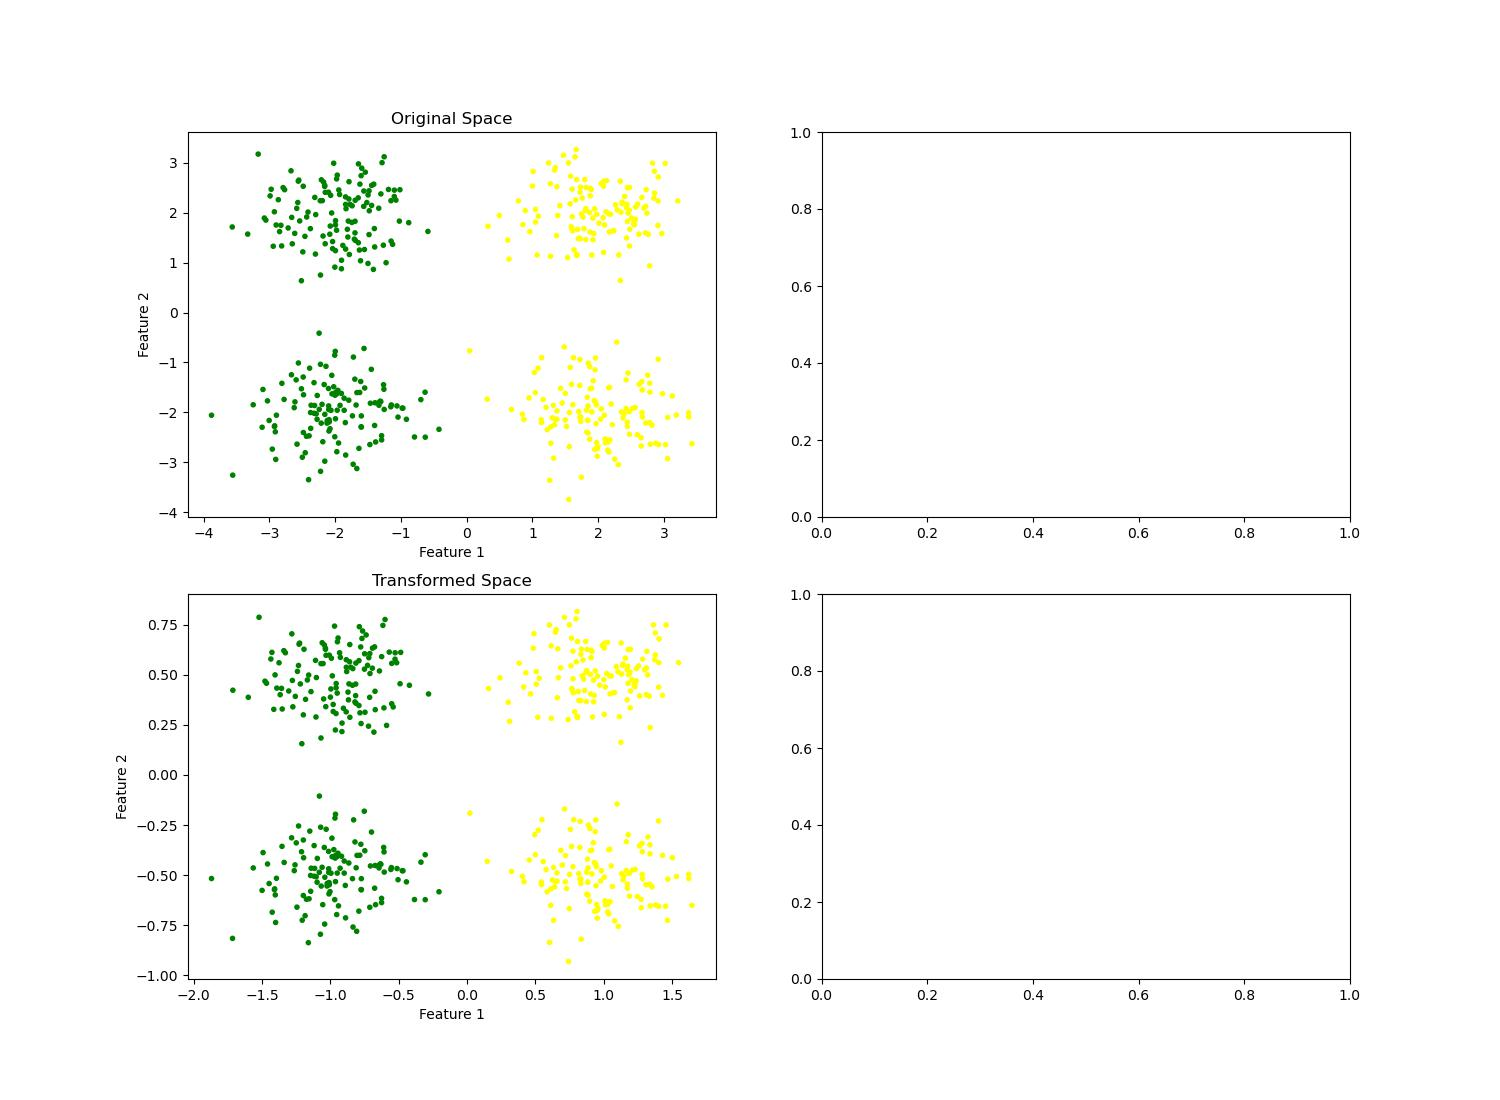
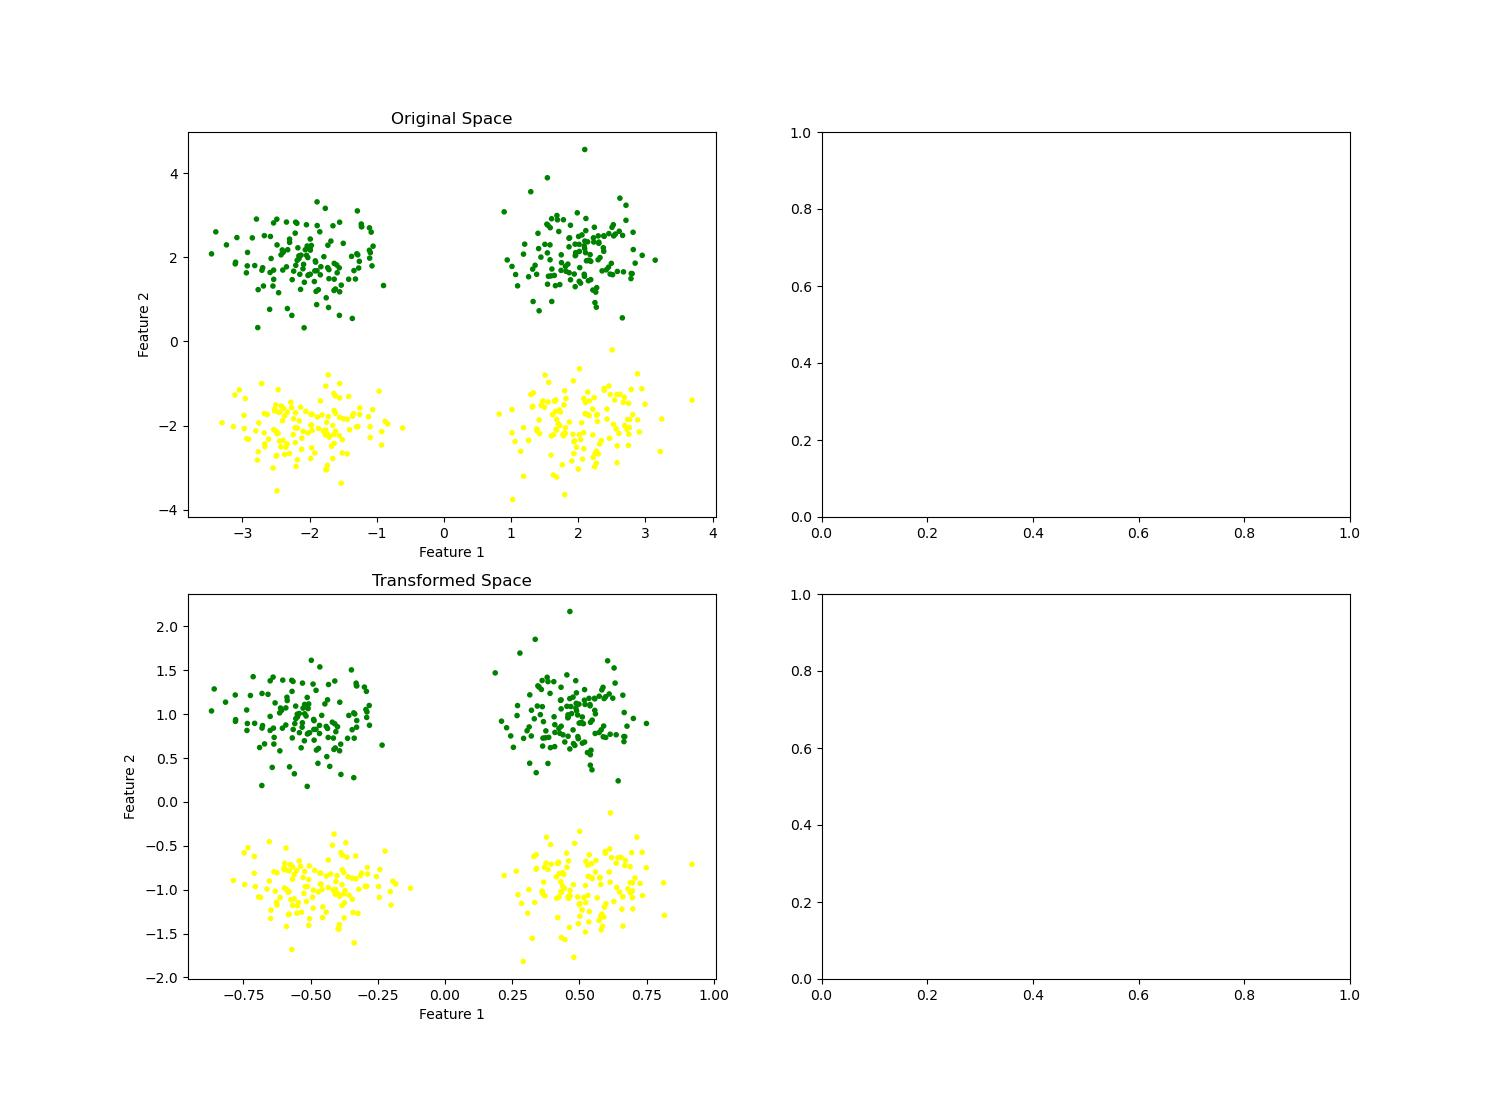
TESTING

diff --git a/PrincipledFlexibleFrameworkForFindingAlternativeClusterings/main_principled.py b/PrincipledFlexibleFrameworkForFindingAlternativeClusterings/main_principled.py
@@ -176,7 +176,7 @@ def princ_flex_framework_AlternativeClustering(DATA, a, alternatives, k, datatyp
 alternatives = 5
 a = 2
 
-DATA, k, datatype  = generate_data(type= '2-2-3') 						# '2-2-3', '4-3-2'
+DATA, k, datatype  = generate_data(type= '4-3-2') 						# '2-2-3', '4-3-2'
 #DATA, k, datatype, imRow, imCol, imDim = generate_data(type= 'image') 	# 'image'
 
 princ_flex_framework_AlternativeClustering(DATA, a, alternatives, k, datatype)
